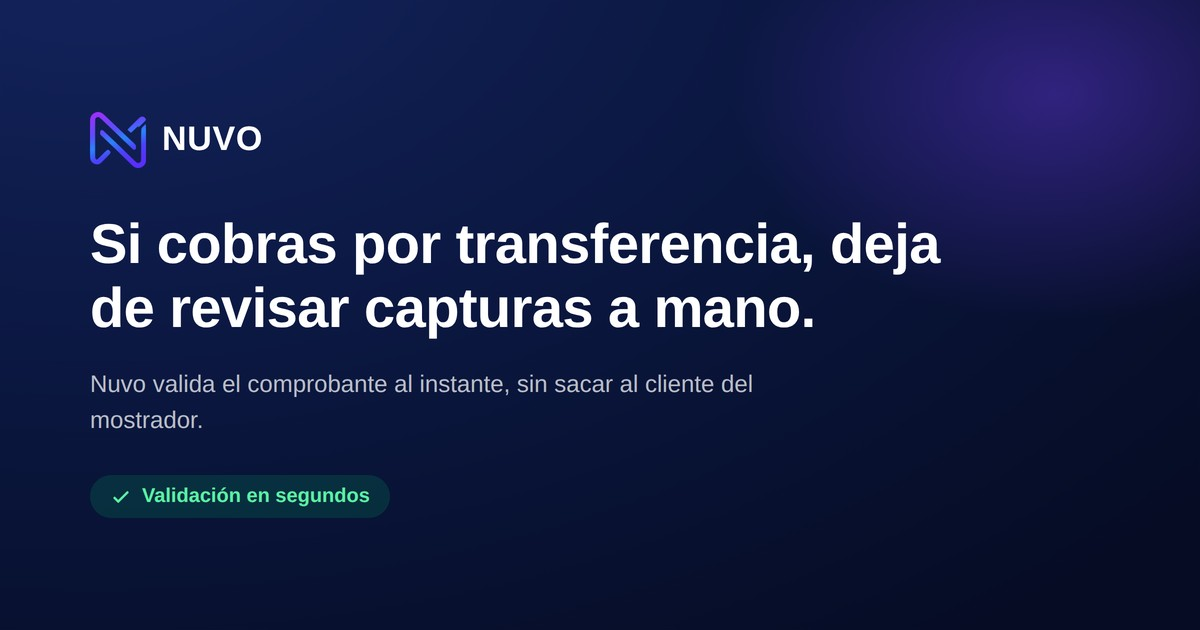
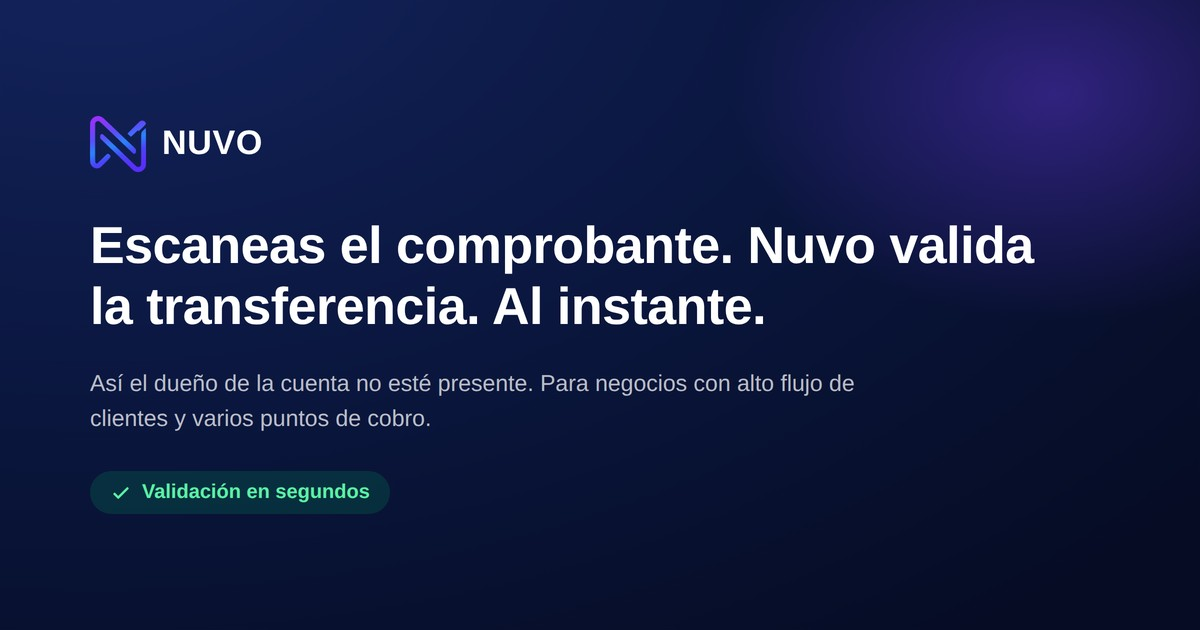
Rewrite messaging around the real ideal customer, not WhatsApp screenshots (#13)
Reworks the site's core positioning based on feedback that the copy had
drifted from what the product actually sells:

- Hero and problem section no longer lead with "the receipt arrives via
  WhatsApp" — that's one input channel, not the main flow. New framing
  centers on scanning and validating a receipt on the spot, and on the
  real reason it matters: the account owner often isn't physically at
  the business, so an employee has to trust the receipt alone.
- Adds a new lead problem card ("Parece correcto a simple vista")
  about the visual-trust trap: an operator sees the right name and
  amount and hands over the product, but a doctored receipt passes
  that same visual check, and there's often no owner around to catch
  it. Problem section grid grows from 3 to 4 cards to fit it without
  cutting the existing ones.
- Replaces the audience section's specific business types (tienda,
  farmacia, restaurante / Instagram, WhatsApp, encomienda) with the
  actual ideal-customer profile: high customer volume, owner not
  always on site, multiple points of sale — on both index.html and
  the duplicated section on valores.html.
- Replaces "Hecho en Ecuador" (hero trust bullet and a "Por qué Nuvo"
  value card) with "Impulsado por tecnología Nuvo", per direction, and
  rewrites that value card around the validation engine instead.
- Adds a secondary, de-emphasized note on the "Cómo funciona" page
  about the receipt-upload feature, so it's mentioned without being
[…]

diff --git a/index.html b/index.html
@@ -4,7 +4,7 @@
 <meta charset="UTF-8">
 <meta name="viewport" content="width=device-width, initial-scale=1">
 <title>Nuvo — Validador de transferencias para tu negocio</title>
-<meta name="description" content="Si cobras por transferencia, deja de revisar capturas a mano. Nuvo valida el comprobante al instante, sin sacar al cliente del mostrador.">
+<meta name="description" content="Nuvo escanea el comprobante y valida la transferencia al instante, así el dueño no esté en el local. Pensado para negocios con alto flujo y varios puntos de cobro.">
 
 <link rel="icon" type="image/png" sizes="32x32" href="assets/favicon-32.png">
 <link rel="icon" type="image/png" sizes="48x48" href="assets/favicon-48.png">
@@ -15,13 +15,13 @@
 <meta property="og:locale" content="es_EC">
 <meta property="og:url" content="https://nuvoio.app/">
 <meta property="og:title" content="Nuvo — Validador de transferencias para tu negocio">
-<meta property="og:description" content="Si cobras por transferencia, deja de revisar capturas a mano. Nuvo valida el comprobante al instante, sin sacar al cliente del mostrador.">
+<meta property="og:description" content="Nuvo escanea el comprobante y valida la transferencia al instante, así el dueño no esté en el local. Pensado para negocios con alto flujo y varios puntos de cobro.">
 <meta property="og:image" content="https://nuvoio.app/assets/og-image.jpg">
 <meta property="og:image:width" content="1200">
 <meta property="og:image:height" content="630">
 <meta name="twitter:card" content="summary_large_image">
 <meta name="twitter:title" content="Nuvo — Validador de transferencias para tu negocio">
-<meta name="twitter:description" content="Si cobras por transferencia, deja de revisar capturas a mano. Nuvo valida el comprobante al instante, sin sacar al cliente del mostrador.">
+<meta name="twitter:description" content="Nuvo escanea el comprobante y valida la transferencia al instante, así el dueño no esté en el local. Pensado para negocios con alto flujo y varios puntos de cobro.">
 <meta name="twitter:image" content="https://nuvoio.app/assets/og-image.jpg">
 
 <link rel="preconnect" href="https://fonts.googleapis.com">
@@ -66,8 +66,8 @@
   <div class="wrap hero-grid">
     <div>
       <span class="pill eyebrow">Nuestro primer producto · Validador de transferencias</span>
-      <h1>Si cobras por transferencia, deja de revisar capturas a mano.</h1>
-      <p class="lead">El comprobante llega por WhatsApp y ahí empieza el problema: una captura se edita en segundos. Nuvo confirma en el momento si la transferencia es real, sin sacar al cliente del mostrador.</p>
+      <h1>Escaneas el comprobante. Nuvo valida la transferencia. Al instante.</h1>
+      <p class="lead">Confirmamos en segundos si una transferencia es real, así el dueño de la cuenta no esté presente. Pensado para negocios con alto flujo de clientes y varios puntos de cobro.</p>
       <div class="hero-ctas">
         <a class="btn btn-primary" href="https://wa.me/593996879595?text=Hola%2C%20quiero%20saber%20m%C3%A1s%20sobre%20Nuvo" target="_blank" rel="noopener">Hablar por WhatsApp</a>
         <a class="btn btn-ghost" href="como-funciona.html">Ver cómo funciona</a>
@@ -75,7 +75,7 @@
       <div class="hero-trust">
         <span><span class="dot"></span> Validación en segundos</span>
         <span><span class="dot"></span> Cada cobro queda registrado</span>
-        <span><span class="dot"></span> Hecho en Ecuador</span>
+        <span><span class="dot"></span> Impulsado por tecnología Nuvo</span>
       </div>
     </div>
     <div class="hero-visual">
@@ -173,22 +173,27 @@
   <div class="wrap">
     <div class="section-head">
       <span class="kicker">El problema</span>
-      <h2>El comprobante llega por WhatsApp. Ahí empieza el problema.</h2>
-      <p>Tres formas en las que un negocio pierde dinero por confiar en una imagen.</p>
+      <h2>Cuando el dueño no está, el comprobante es la única defensa. Y se puede falsificar.</h2>
+      <p>Cuatro formas en las que un negocio pierde dinero por confiar en una imagen.</p>
     </div>
-    <div class="cards3">
+    <div class="cards4">
       <div class="problem-card">
         <span class="problem-num">01</span>
+        <h3>Parece correcto a simple vista</h3>
+        <p>El operador ve que el nombre y el monto coinciden, y entrega. Si el comprobante fue adulterado, esa revisión visual no lo detecta — y el dueño no siempre está ahí para revisarlo de nuevo.</p>
+      </div>
+      <div class="problem-card">
+        <span class="problem-num">02</span>
         <h3>La captura se puede editar</h3>
         <p>Cambiar un monto o una fecha en una imagen toma menos de un minuto y no requiere saber nada técnico.</p>
       </div>
       <div class="problem-card">
-        <span class="problem-num">02</span>
+        <span class="problem-num">03</span>
         <h3>Verificar toma tiempo</h3>
         <p>Abrir la app del banco con el cliente esperando, buscar el movimiento y comparar. Con fila detrás, casi nadie lo hace.</p>
       </div>
       <div class="problem-card">
-        <span class="problem-num">03</span>
+        <span class="problem-num">04</span>
         <h3>La pérdida se ve después</h3>
         <p>El producto ya salió del local. Cuando cuadras la caja al cierre, el dinero no está y el cliente no vuelve.</p>
       </div>
@@ -217,7 +222,7 @@
           <svg viewBox="0 0 24 24" fill="none"><path d="M12 2l7 3v6c0 5-3.4 8.6-7 11-3.6-2.4-7-6-7-11V5l7-3z" stroke="currentColor" stroke-width="1.8" stroke-linejoin="round"/><path d="M9 12.2l2 2 4-4.4" stroke="currentColor" stroke-width="1.8" stroke-linecap="round" stroke-linejoin="round"/></svg>
         </div>
         <h3>Por qué Nuvo</h3>
-        <p>Confianza, rapidez sin filas, registro automático de cada cobro y hecho a medida para Ecuador.</p>
+        <p>Confianza, rapidez sin filas, registro automático de cada cobro y tecnología propia de validación.</p>
         <span class="explore-link">Ver los valores <svg viewBox="0 0 24 24" fill="none"><path d="M5 12h14M13 6l6 6-6 6" stroke="currentColor" stroke-width="2" stroke-linecap="round" stroke-linejoin="round"/></svg></span>
       </a>
       <a class="explore-card" href="planes.html">
@@ -240,14 +245,19 @@
     </div>
     <div class="aud-grid">
       <div class="aud-card">
-        <span class="aud-tag">Negocio de mostrador</span>
-        <h3>Tienda, farmacia, restaurante</h3>
-        <p>Cobras rápido, con fila, y no puedes detenerte a revisar el banco en cada venta.</p>
+        <span class="aud-tag">Alto flujo de clientes</span>
+        <h3>El volumen no da tregua</h3>
+        <p>Muchas transferencias entrando todo el día, sin tiempo de parar a comparar cada una contra el banco.</p>
       </div>
       <div class="aud-card alt">
-        <span class="aud-tag">Venta por redes</span>
-        <h3>Instagram, WhatsApp, encomienda</h3>
-        <p>Cierras la venta por chat y despachas por encomienda. Verificas antes de que el paquete salga.</p>
+        <span class="aud-tag">El dueño no siempre está</span>
+        <h3>Alguien más tiene que confiar</h3>
+        <p>El titular de la cuenta no está físicamente en el negocio — un vendedor o cajero es quien decide si el comprobante es real.</p>
+      </div>
+      <div class="aud-card">
+        <span class="aud-tag">Varios puntos de cobro</span>
+        <h3>Un local o varios, mismo riesgo</h3>
+        <p>Cada punto de venta necesita la misma forma rápida y confiable de verificar, sin depender de quién esté a cargo ese día.</p>
       </div>
     </div>
   </div>

diff --git a/valores.html b/valores.html
@@ -4,7 +4,7 @@
 <meta charset="UTF-8">
 <meta name="viewport" content="width=device-width, initial-scale=1">
 <title>Por qué Nuvo</title>
-<meta name="description" content="Pensado para el mostrador, no para un laboratorio. Confianza, rapidez sin filas, registro automático y hecho para Ecuador.">
+<meta name="description" content="Pensado para el mostrador, no para un laboratorio. Confianza, rapidez sin filas, registro automático y tecnología propia de validación.">
 
 <link rel="icon" type="image/png" sizes="32x32" href="assets/favicon-32.png">
 <link rel="icon" type="image/png" sizes="48x48" href="assets/favicon-48.png">
@@ -15,13 +15,13 @@
 <meta property="og:locale" content="es_EC">
 <meta property="og:url" content="https://nuvoio.app/valores.html">
 <meta property="og:title" content="Por qué Nuvo">
-<meta property="og:description" content="Pensado para el mostrador, no para un laboratorio. Confianza, rapidez sin filas, registro automático y hecho para Ecuador.">
+<meta property="og:description" content="Pensado para el mostrador, no para un laboratorio. Confianza, rapidez sin filas, registro automático y tecnología propia de validación.">
 <meta property="og:image" content="https://nuvoio.app/assets/og-image.jpg">
 <meta property="og:image:width" content="1200">
 <meta property="og:image:height" content="630">
 <meta name="twitter:card" content="summary_large_image">
 <meta name="twitter:title" content="Por qué Nuvo">
-<meta name="twitter:description" content="Pensado para el mostrador, no para un laboratorio. Confianza, rapidez sin filas, registro automático y hecho para Ecuador.">
+<meta name="twitter:description" content="Pensado para el mostrador, no para un laboratorio. Confianza, rapidez sin filas, registro automático y tecnología propia de validación.">
 <meta name="twitter:image" content="https://nuvoio.app/assets/og-image.jpg">
 
 <link rel="preconnect" href="https://fonts.googleapis.com">
@@ -90,9 +90,9 @@
         <p>Cada cobro queda guardado: quién validó, cuándo y cuánto. El cierre de caja deja de ser un dolor de cabeza.</p>
       </div>
       <div class="value-card">
-        <div class="value-icon"><svg viewBox="0 0 24 24" fill="none"><path d="M3 21c0-4 4-6 9-6s9 2 9 6" stroke="currentColor" stroke-width="1.8" stroke-linecap="round"/><circle cx="12" cy="8" r="4" stroke="currentColor" stroke-width="1.8"/></svg></div>
-        <h3>Hecho para Ecuador</h3>
-        <p>Pensado y construido para cómo se cobra realmente en negocios locales: por WhatsApp, en mostrador y contra reloj.</p>
+        <div class="value-icon"><svg viewBox="0 0 24 24" fill="none"><rect x="7" y="7" width="10" height="10" rx="2" stroke="currentColor" stroke-width="1.8"/><path d="M9 3v3M15 3v3M9 18v3M15 18v3M3 9h3M3 15h3M18 9h3M18 15h3" stroke="currentColor" stroke-width="1.8" stroke-linecap="round"/></svg></div>
+        <h3>Impulsado por tecnología Nuvo</h3>
+        <p>Un motor de validación propio que compara cada comprobante contra el banco en tiempo real — no una revisión visual que se puede engañar.</p>
       </div>
     </div>
   </div>
@@ -106,14 +106,19 @@
     </div>
     <div class="aud-grid">
       <div class="aud-card">
-        <span class="aud-tag">Negocio de mostrador</span>
-        <h3>Tienda, farmacia, restaurante</h3>
-        <p>Cobras rápido, con fila, y no puedes detenerte a revisar el banco en cada venta.</p>
+        <span class="aud-tag">Alto flujo de clientes</span>
+        <h3>El volumen no da tregua</h3>
+        <p>Muchas transferencias entrando todo el día, sin tiempo de parar a comparar cada una contra el banco.</p>
       </div>
       <div class="aud-card alt">
-        <span class="aud-tag">Venta por redes</span>
-        <h3>Instagram, WhatsApp, encomienda</h3>
-        <p>Cierras la venta por chat y despachas por encomienda. Verificas antes de que el paquete salga.</p>
+        <span class="aud-tag">El dueño no siempre está</span>
+        <h3>Alguien más tiene que confiar</h3>
+        <p>El titular de la cuenta no está físicamente en el negocio — un vendedor o cajero es quien decide si el comprobante es real.</p>
+      </div>
+      <div class="aud-card">
+        <span class="aud-tag">Varios puntos de cobro</span>
+        <h3>Un local o varios, mismo riesgo</h3>
+        <p>Cada punto de venta necesita la misma forma rápida y confiable de verificar, sin depender de quién esté a cargo ese día.</p>
       </div>
     </div>
   </div>

diff --git a/assets/styles.css b/assets/styles.css
@@ -66,7 +66,10 @@ header{
 }
 .nav{display:flex;align-items:center;justify-content:space-between;padding:14px 24px;color:#fff;}
 .brand{display:flex;align-items:center;gap:10px;font-family:var(--font-head);font-weight:700;font-size:18px;text-transform:uppercase;letter-spacing:.02em;}
-.brand img{width:32px;height:32px;border-radius:9px;}
+.brand img{
+  width:36px;height:36px;border-radius:9px;
+  filter:drop-shadow(0 0 6px rgba(140,99,242,.7)) drop-shadow(0 0 16px rgba(108,58,237,.4));
+}
 .nav-links{display:flex;align-items:center;gap:28px;font-size:14px;font-weight:500;color:rgba(255,255,255,.82);}
 .nav-links a:hover{color:#fff;}
 .nav-links a.active{color:#fff;position:relative;}
@@ -428,6 +431,10 @@ section{padding:88px 0;}
 }
 .how-step h3{font-size:18px;margin-bottom:10px;}
 .how-step p{font-size:14.5px;color:var(--azul-70);max-width:32ch;}
+.how-note{
+  text-align:center;margin-top:36px;font-size:14px;color:var(--azul-70);
+  max-width:560px;margin-left:auto;margin-right:auto;
+}
 
 .outcomes{
   display:grid;grid-template-columns:repeat(3,1fr);gap:18px;
@@ -473,8 +480,8 @@ section{padding:88px 0;}
 
 /* ---------- Audience ---------- */
 .audience{background:#fff;}
-.aud-grid{display:grid;grid-template-columns:1fr 1fr;gap:22px;}
-@media (max-width:760px){.aud-grid{grid-template-columns:1fr;}}
+.aud-grid{display:grid;grid-template-columns:repeat(3,1fr);gap:22px;}
+@media (max-width:900px){.aud-grid{grid-template-columns:1fr;}}
 .aud-card{
   border-radius:var(--radius-sheet);
   padding:32px;
@@ -679,7 +686,10 @@ section{padding:88px 0;}
 footer{background:#060c24;color:rgba(255,255,255,.55);padding:44px 0 28px;}
 .foot-top{display:flex;justify-content:space-between;align-items:center;flex-wrap:wrap;gap:18px;margin-bottom:28px;}
 .foot-brand{display:flex;align-items:center;gap:10px;color:#fff;font-family:var(--font-head);font-weight:700;font-size:16px;text-transform:uppercase;letter-spacing:.02em;}
-.foot-brand img{width:28px;height:28px;border-radius:8px;}
+.foot-brand img{
+  width:30px;height:30px;border-radius:8px;
+  filter:drop-shadow(0 0 5px rgba(140,99,242,.6)) drop-shadow(0 0 14px rgba(108,58,237,.35));
+}
 footer .foot-links{display:flex;gap:22px;font-size:13.5px;}
 footer .foot-links a:hover{color:#fff;}
 .foot-bottom{

diff --git a/registro.html b/registro.html
@@ -72,7 +72,7 @@
             <svg viewBox="0 0 24 24" fill="none"><path d="M3 21c0-4 4-6 9-6s9 2 9 6" stroke="currentColor" stroke-width="1.8" stroke-linecap="round"/><circle cx="12" cy="8" r="4" stroke="currentColor" stroke-width="1.8"/></svg>
           </div>
           <div>
-            <h3>Soporte real, hecho en Ecuador</h3>
+            <h3>Soporte real, no un bot</h3>
             <p>Hablas directo con nosotros, no con un bot ni un ticket perdido.</p>
           </div>
         </div>

diff --git a/como-funciona.html b/como-funciona.html
@@ -114,6 +114,8 @@
         </div>
       </div>
     </div>
+
+    <p class="how-note">¿Te enviaron el comprobante por WhatsApp o redes en vez de mostrarlo en persona? También puedes subir la imagen directamente — Nuvo la valida igual.</p>
   </div>
 </section>
 
